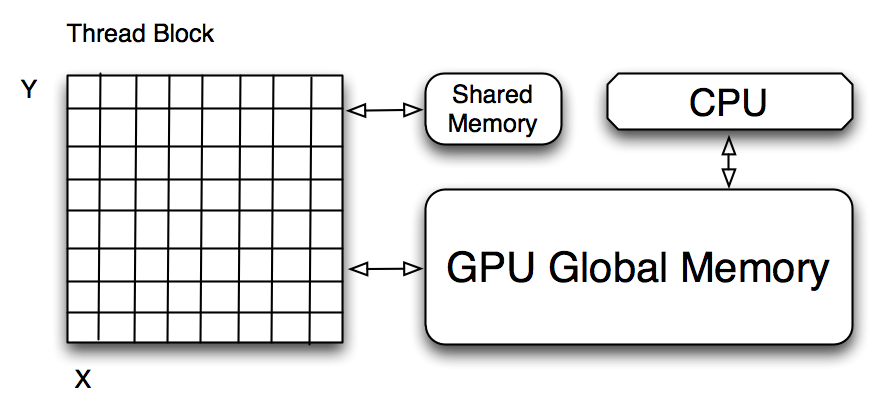
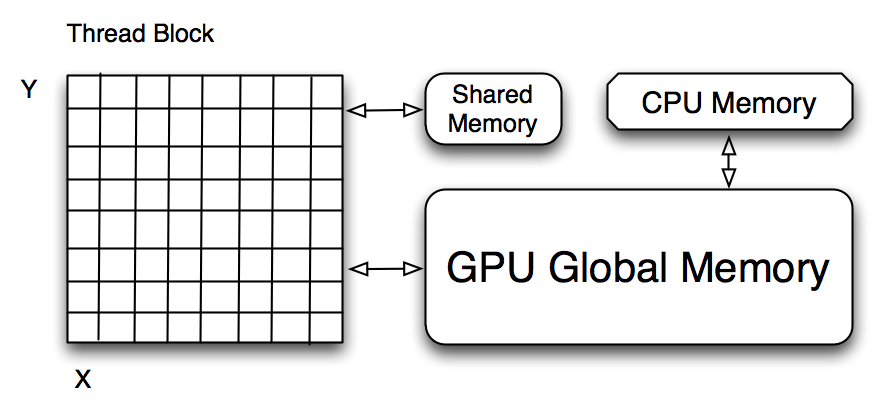
EDIT: typos, language, and changed figure a bit

Changed region(s): [[0.6954, 0.2039, 0.9373, 0.2913]]

diff --git a/papers/gpustats/gpustats.rst b/papers/gpustats/gpustats.rst
@@ -76,17 +76,16 @@ developer writes a function, known as a *kernel*, to process a unit of
 data. The kernel function is then executed once for each unit or chunk
 of data.
 
-The GPU has a large single *global* memory store (typically 512MB to
-4GB) from which data sets can be written and read by the CPU. However,
-each group, or *block*, of threads are assigned a small piece
-(typically 16K to 64K) of ultra low-latency *shared* cache memory
-which is orders of magnitude faster than the global memory. Therefore,
-the main challenge for the developer, outside of writing the kernel
-function, is structuring the computation to optimally utilize each
-thread block's shared memory and minimizing reads from and writes to
-the global memory. Careful coordination of the threads is required to
-transfer memory efficiently from global to shared. We will not get
-into the low-level details of this process but instead refer the
+The GPU has a large single *global* memory store (typically 512MB to 4GB) with
+which data sets can be transferred to and from the CPU RAM memory
+space. However, each group, or *block*, of threads are assigned a small piece
+(typically 16K to 64K) of ultra low-latency *shared* cache memory which is
+orders of magnitude faster than the global memory. Therefore, the main challenge
+for the developer, outside of writing the kernel function, is structuring the
+computation to optimally utilize each thread block's shared memory and
+minimizing reads from and writes to the global memory. Careful coordination of
+the threads is required to transfer memory efficiently from global to shared. We
+will not get into the low-level details of this process but instead refer the
 interested reader to the CUDA API guide ([NvidiaGuide]_). See Figure
 :ref:`gpuschematic` for a rough diagram of the computing architecture.
 
@@ -137,8 +136,8 @@ in which case :math:`\Theta = (\mu, \sigma^2)` and
 In many statistical inference algorithms, the "goodness of fit" of the
 parameters :math:`\Theta` is evaluated based on the full data likelihood
 :ref:`likelihood`. It is common to use the logged likelihood function as
-:ref:`likelihood` decomposes into a sum of log densities and secondly this
-reduces numerical precision problems.
+:ref:`likelihood` decomposes into a sum of log densities and this also reduces
+numerical precision problems.
 
 Many numerical algorithms for fitting these likelihood-based models, especially
 Monte Carlo-based, involve evaluating the log-likelihood function over thousands
@@ -153,7 +152,7 @@ latency. Suchard et al. studied these advantages in the Bayesian mixture model
 setting and found very promising results (100x speedup) on graphics cards that
 are now 2 years old ([JCGS]_).
 
-Another source of significant computation in statistical applications which we
+Another source of significant computation in statistical applications that we
 will address is that of generating draws from random variables. In many
 algorithms (e.g. Bayesian Markov Chain Monte Carlo methods), large data sets may
 require generating thousands or millions of random variables from various
@@ -238,7 +237,7 @@ the **gpustats** framework that bank conflicts can be avoided with multivariate
 data by ensuring that the data dimension is not a multiple of 16. Thus, some
 data sets must be *padded* with arbitrary data to avoid this problem, while
 passing the true data dimension to the GPU kernel. If this is not done, bank
-conflicts will lead to noticably degraded performance. We are hopeful that such
+conflicts will lead to noticeably degraded performance. We are hopeful that such
 workarounds can be avoided with future versions of GPU memory architecture.
 
 For sampling random variables on the GPU, the process is reasonably
@@ -276,7 +275,7 @@ known as device functions, marked by ``__device__``. Since the data
 transfer / coalescing problem needs to be only solved once for each
 variety of kernel, we can use templating to generate a custom kernel
 for each new device function implementing a new probability
-density. It is then simple to enable elementwise transformations of
+density. It is then simple to enable element wise transformations of
 existing device functions, e.g. taking the ``exp`` of a logged
 probability density. In the **gpustats** framework, the code for
 implementing the logged and unlogged normal pdf is as follows:
